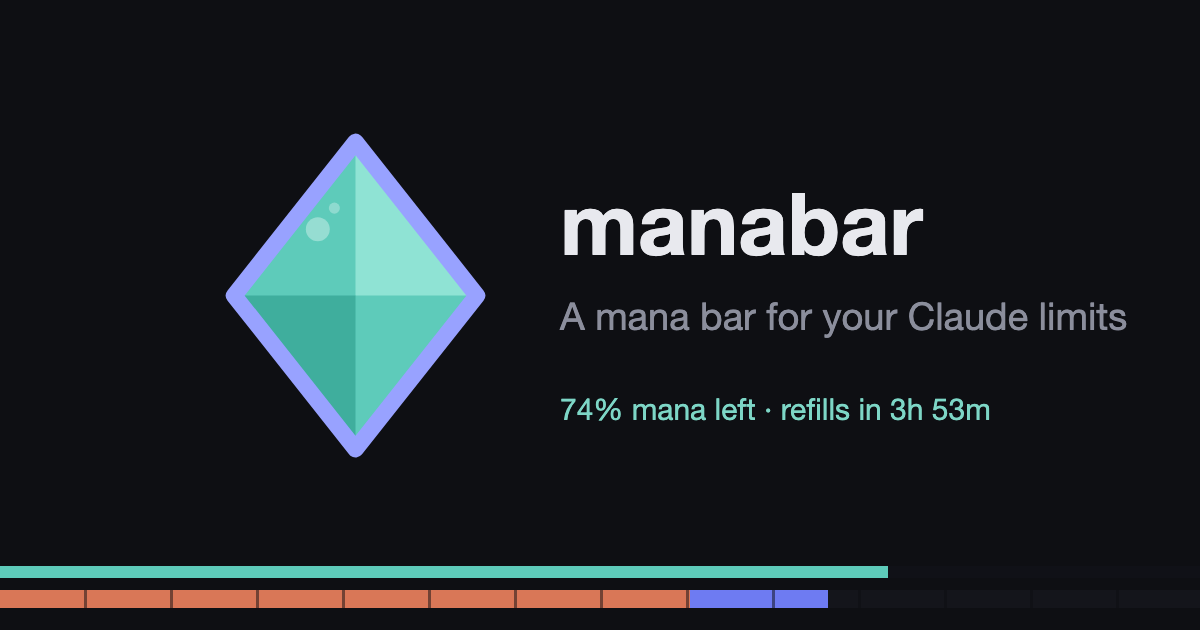
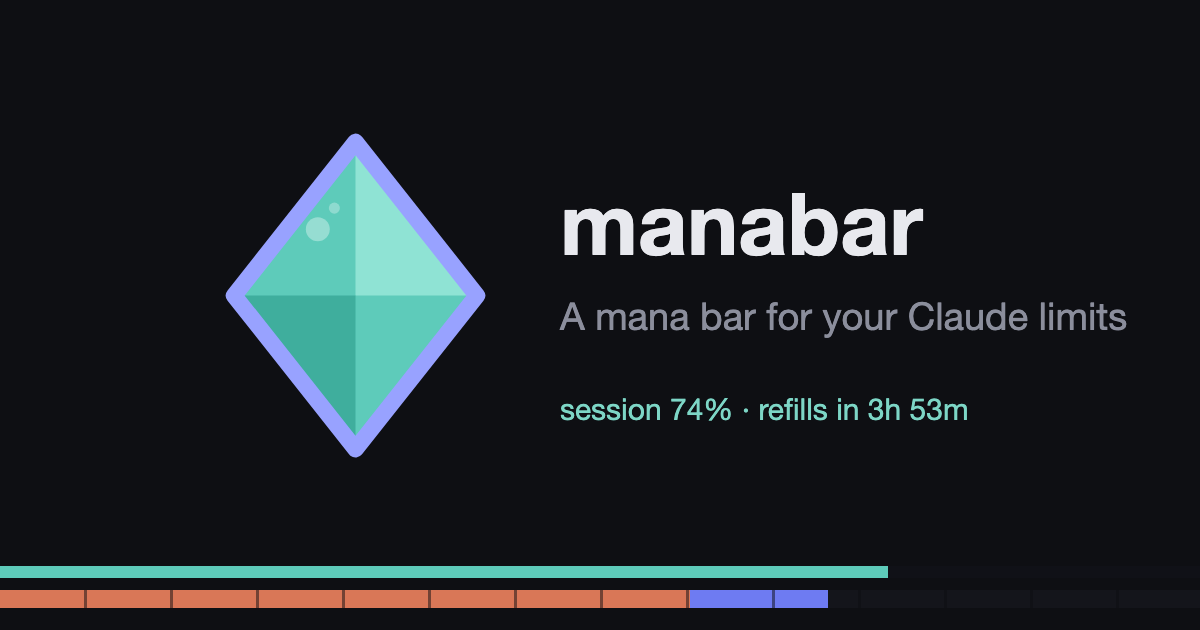
Retire mana from UI labels: session reads like every other meter
Pill grammar is now uniform swatch-label-value across session, fable,
and week. Site copy and the share card follow. The word survives only
as the product name.

Changed region(s): [[0.4625, 0.6333, 0.8325, 0.6635]]

diff --git a/site/index.html b/site/index.html
@@ -4,21 +4,21 @@
 <meta charset="UTF-8" />
 <meta name="viewport" content="width=device-width, initial-scale=1" />
 <title>manabar: a mana bar for your Claude limits</title>
-<meta name="description" content="manabar pins a thin, click-through meter to the bottom of your screen. Session mana drains as you work and the readout tells you exactly when you refill." />
+<meta name="description" content="manabar pins a thin, click-through meter to the bottom of your screen. Your session drains as you work and the readout tells you exactly when you refill." />
 <link rel="canonical" href="https://getmanabar.com/" />
 <link rel="icon" type="image/png" href="/favicon.png" />
 <link rel="apple-touch-icon" href="/icon.png" />
 <meta property="og:type" content="website" />
 <meta property="og:site_name" content="manabar" />
 <meta property="og:title" content="manabar: a mana bar for your Claude limits" />
-<meta property="og:description" content="A click-through meter at the bottom of your screen. Mana drains as you work, and the readout tells you exactly when you refill." />
+<meta property="og:description" content="A click-through meter at the bottom of your screen. Your session drains as you work, and the readout tells you exactly when you refill." />
 <meta property="og:url" content="https://getmanabar.com/" />
 <meta property="og:image" content="https://getmanabar.com/og.png" />
 <meta property="og:image:width" content="1200" />
 <meta property="og:image:height" content="630" />
 <meta name="twitter:card" content="summary_large_image" />
 <meta name="twitter:title" content="manabar: a mana bar for your Claude limits" />
-<meta name="twitter:description" content="A click-through meter at the bottom of your screen. Mana drains as you work, and the readout tells you exactly when you refill." />
+<meta name="twitter:description" content="A click-through meter at the bottom of your screen. Your session drains as you work, and the readout tells you exactly when you refill." />
 <meta name="twitter:image" content="https://getmanabar.com/og.png" />
 <script type="application/ld+json">
 {
@@ -190,11 +190,11 @@
     <header>
       <img class="flask" src="/icon.png" alt="manabar crystal logo" width="88" height="88" />
       <h1>A <span class="mana">mana bar</span> for your Claude limits</h1>
-      <p class="sub">manabar pins a thin, click-through meter to the bottom of your screen. Session mana drains as you work, the weekly meters sit behind it, and the readout tells you exactly when you refill.</p>
+      <p class="sub">manabar pins a thin, click-through meter to the bottom of your screen. Your session drains as you work, the weekly meters sit behind it, and the readout tells you exactly when you refill.</p>
     </header>
 
     <div class="demo" role="img" aria-label="A desktop with the manabar overlay at its bottom edge">
-      <div class="pill"><span class="s">74% mana left</span> <span class="d">· refills in 3h 53m</span><span class="sep"></span><span class="sw" style="background:var(--orange)"></span><span class="d">fable</span> <span class="f">69%</span><span class="sep"></span><span class="sw" style="background:var(--indigo)"></span><span class="d">week</span> <span class="w">83%</span></div>
+      <div class="pill"><span class="sw" style="background:var(--teal)"></span><span class="d">session</span> <span class="s">74%</span> <span class="d">· refills in 3h 53m</span><span class="sep"></span><span class="sw" style="background:var(--orange)"></span><span class="d">fable</span> <span class="f">69%</span><span class="sep"></span><span class="sw" style="background:var(--indigo)"></span><span class="d">week</span> <span class="w">83%</span></div>
       <div class="sessionbar"><div class="fill"></div><div class="ghost"></div></div>
       <div class="weekbar"><div class="wf"></div><div class="ff"></div><div class="ticks"></div></div>
     </div>
@@ -203,14 +203,14 @@
       <h2>Works with</h2>
       <div class="harness-grid">
         <div class="harness">
-          <div class="mini" role="img" aria-label="manabar in Claude mode: session bar and weekly strip">
-            <div class="pill"><span class="s">74% mana left</span> <span class="d">· refills in 3h 53m</span><span class="sep"></span><span class="sw" style="background:var(--orange)"></span><span class="d">fable</span> <span class="f">69%</span><span class="sw" style="background:var(--indigo);margin-left:7px"></span><span class="d">week</span> <span class="w">83%</span></div>
+          <div class="mini" role="img" aria-label="manabar in Claude mode: session meter and weekly strip">
+            <div class="pill"><span class="sw" style="background:var(--teal)"></span><span class="d">session</span> <span class="s">74%</span> <span class="d">· refills in 3h 53m</span><span class="sep"></span><span class="sw" style="background:var(--orange)"></span><span class="d">fable</span> <span class="f">69%</span><span class="sw" style="background:var(--indigo);margin-left:7px"></span><span class="d">week</span> <span class="w">83%</span></div>
             <div class="sessionbar"><div class="fill" style="width:74%"></div></div>
             <div class="weekbar"><div class="wf" style="width:83%"></div><div class="ff" style="width:69%"></div><div class="ticks"></div></div>
           </div>
           <div class="meta">
             <h3>Claude Code</h3>
-            <p>Session mana up top, both weekly meters in the strip, read from the sign-in your CLI already has.</p>
+            <p>The session meter up top, both weekly meters in the strip, read from the sign-in your CLI already has.</p>
           </div>
         </div>
         <div class="harness">
@@ -229,7 +229,7 @@
     <div class="features">
       <div>
         <h2>Watch the drain</h2>
-        <p>When tokens burn, a pale ghost lingers where your mana was and fades out, so a hungry agent session is visible from across the room.</p>
+        <p>When tokens burn, a pale ghost lingers where your session was and fades out, so a hungry agent session is visible from across the room.</p>
       </div>
       <div>
         <h2>Know your refill</h2>

diff --git a/src/main.ts b/src/main.ts
@@ -227,9 +227,7 @@ function render() {
   const sessionTxt =
     left === null
       ? ""
-      : left <= 0
-        ? `<span class="session">mana tapped</span> <span class="dim">· refills in ${countdown(state.sessionReset)}</span>`
-        : `<span class="session">${Math.round(left)}% mana left</span> <span class="dim">· refills in ${countdown(state.sessionReset)}</span>`;
+      : `<span class="swatch" style="background:#5ecbba"></span><span class="dim">session</span> <span class="session">${left <= 0 ? "tapped" : `${Math.round(left)}%`}</span> <span class="dim">· refills in ${countdown(state.sessionReset)}</span>`;
   // pill grammar: the hairline divider separates timescale GROUPS (session
   // vs weekly); dots punctuate within a group, ending with the group reset
   const div = `<span class="divider"></span>`;
@@ -250,7 +248,7 @@ function render() {
   }
   const refillTxt =
     state.refillAt && Date.now() - state.refillAt < REFILL_NOTE_MS
-      ? ` <span class="gold">+${Math.round(state.refillAmt)}% ${left === null ? "week" : "mana"} refilled</span>`
+      ? ` <span class="gold">+${Math.round(state.refillAmt)}% ${left === null ? "week" : "session"} refilled</span>`
       : "";
   label.innerHTML = sessionTxt + stripTxt + refillTxt;
   document.body.classList.toggle("single-meter", state.strip.length === 0);

diff --git a/.claude/CLAUDE.md b/.claude/CLAUDE.md
@@ -4,7 +4,7 @@ MMO-style mana bar overlay for Claude token limits. Owned by staff-engineer-mira
 
 ## Vocabulary (Andy's, use exactly)
 
-- **Mana = session-based limits ONLY.** Pill says "74% mana left", "mana tapped", "refills in". A provider with no session window (codex Plus) has NO mana bar: its weekly renders in the weekly strip (indigo, ticks), pill "week 88% · resets in 5d 9h". Never borrow the mana slot for a weekly pool.
+- **"mana" is RETIRED from all UI labels (Andy, 2026-08-10: "dropping the fun part, gave it a lot of thought").** The session meter reads like every other meter: swatch + label + value: "▮ session 74% · refills in 3h 53m", tapped = "▮ session tapped". "mana"/"manabar" survive ONLY as the product name and internal code names (mana slot, etc). A provider with no session window (codex Plus) has no session bar: its weekly renders in the weekly strip, pill "▮ week 88% · resets in 5d 9h". Never borrow the session slot for a weekly pool.
 - Fable = the per-model weekly cap (orange #d97757). Week = all-models weekly (indigo #6e7bf2). Mana bar is teal #5ecbba. Pill order: mana, then scoped (fable), then week.
 - Bubbles/segments (14 = 7 days x 2) are AESTHETIC ONLY. Fills move by continuous usage percent, never snap to ticks.
 - **One provider per HUD** (tray Provider submenu, Claude is the default). Never a multi-sub dashboard.
